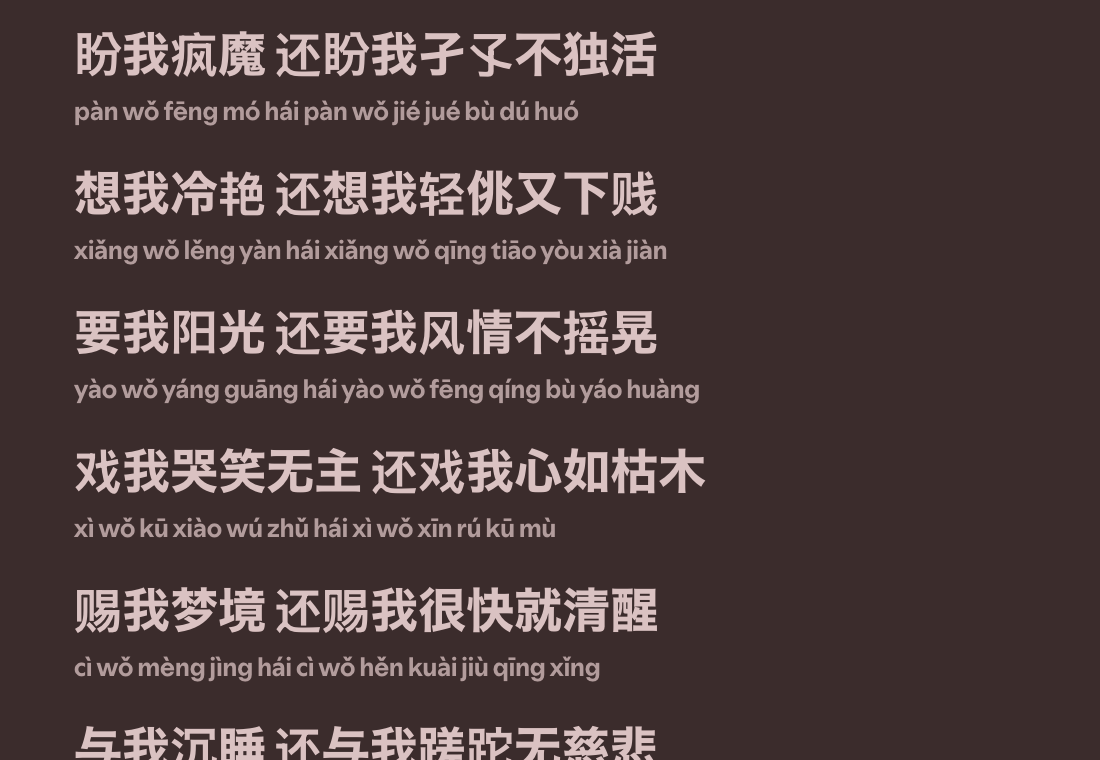
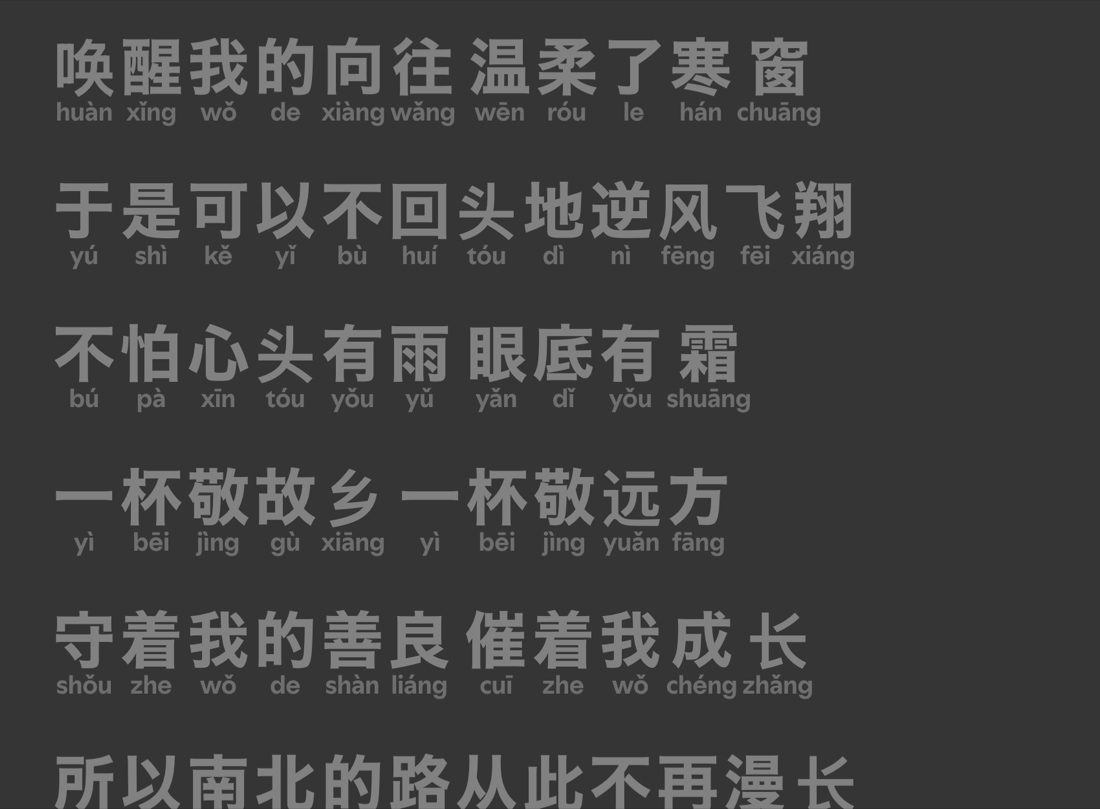
Align pinyin with each character using ruby annotations
Above/below modes now redraw the line as <ruby>, reading each character in
its phrase context (成长 chéng zhǎng, 漫长 màn cháng). Verified all four
modes in Spotify over the remote debugging port.

diff --git a/abc-lyrics.js b/abc-lyrics.js
@@ -395,7 +395,12 @@
   };
 
   const style = document.createElement("style");
-  style.textContent = `.${PINYIN_CLASS},.${ENGLISH_CLASS}{font-size:.55em;opacity:.75;font-weight:500;line-height:1.3;margin:.15em 0}.${ENGLISH_CLASS}{font-style:italic}`;
+  style.textContent = `
+    .${PINYIN_CLASS}--above ruby{ruby-position:over}
+    .${PINYIN_CLASS}--below ruby{ruby-position:under}
+    .${PINYIN_CLASS} rt{font-size:.42em;font-weight:500;opacity:.75;letter-spacing:0}
+    .${PINYIN_CLASS} ruby{margin:0 .04em}
+    .${ENGLISH_CLASS}{font-size:.55em;opacity:.75;font-weight:500;line-height:1.3;margin:.15em 0;font-style:italic}`;
   document.head.appendChild(style);
 
   // Translations come from Google Translate's free endpoint, one request per
@@ -426,6 +431,28 @@
     processAll();
   }
 
+  // pinyin-pro reads each character in the context of its phrase; if OpenCC
+  // changed the length, fall back to reading characters one by one.
+  function rubyLine(text) {
+    const chars = [...text];
+    let readings = pinyinPro.pinyin(toSimplified(text), { type: "all" });
+    if (readings.length !== chars.length) readings = chars.map((c) => pinyinPro.pinyin(toSimplified(c), { type: "all" })[0]);
+    const el = document.createElement("span");
+    el.className = `${PINYIN_CLASS} ${PINYIN_CLASS}--${settings.pinyin}`;
+    chars.forEach((char, i) => {
+      if (!readings[i]?.isZh) {
+        el.append(char);
+        return;
+      }
+      const r = document.createElement("ruby");
+      const rt = document.createElement("rt");
+      rt.textContent = readings[i].pinyin;
+      r.append(char, rt);
+      el.append(r);
+    });
+    return el;
+  }
+
   // Each text node remembers its original text, so turning an option off
   // restores it and React's own updates are picked up as new originals.
   const originals = new WeakMap();
@@ -438,6 +465,11 @@
           ? NodeFilter.FILTER_REJECT
           : NodeFilter.FILTER_ACCEPT,
     });
+    // Above/below: Spotify's text nodes are emptied and the line is redrawn as
+    // <ruby>, so each syllable sits exactly over or under its character.
+    const ruby = settings.pinyin === "below" || settings.pinyin === "above";
+    let displayed = "";
+    const parts = [];
     for (let node = walker.nextNode(); node; node = walker.nextNode()) {
       const known = originals.get(node);
       const source = known && node.nodeValue === known.shown ? known.original : node.nodeValue;
@@ -445,26 +477,29 @@
       let shown = source;
       if (settings.pinyin === "only" && HAN.test(source)) shown = toPinyin(source);
       else if (settings.simplified) shown = toSimplified(source);
+      displayed += shown;
+      parts.push([node, source, shown]);
+    }
+
+    const hasHan = HAN.test(original);
+    for (const [node, source, text] of parts) {
+      const shown = ruby && hasHan ? "" : text;
       originals.set(node, { original: source, shown });
       if (node.nodeValue !== shown) node.nodeValue = shown;
     }
 
-    const hasHan = HAN.test(original);
-
     let pinyinEl = textEl.querySelector(`:scope > .${PINYIN_CLASS}`);
-    const wantsPinyin = hasHan && (settings.pinyin === "below" || settings.pinyin === "above");
-    if (!wantsPinyin) {
+    if (!ruby || !hasHan) {
       pinyinEl?.remove();
     } else {
-      if (!pinyinEl) {
-        pinyinEl = document.createElement("div");
-        pinyinEl.className = PINYIN_CLASS;
+      const key = `${settings.pinyin}|${displayed}`;
+      if (pinyinEl?.dataset.key !== key) {
+        pinyinEl?.remove();
+        pinyinEl = rubyLine(displayed);
+        pinyinEl.dataset.key = key;
       }
-      const text = toPinyin(original);
-      if (pinyinEl.textContent !== text) pinyinEl.textContent = text;
-      const anchor = settings.pinyin === "above" ? textEl.firstChild : null;
-      if (pinyinEl.parentNode !== textEl || (anchor !== pinyinEl && pinyinEl.nextSibling !== anchor)) {
-        textEl.insertBefore(pinyinEl, anchor);
+      if (pinyinEl.parentNode !== textEl || pinyinEl !== textEl.firstChild) {
+        textEl.insertBefore(pinyinEl, textEl.firstChild);
       }
     }
 

diff --git a/src/abc-lyrics.js b/src/abc-lyrics.js
@@ -33,7 +33,12 @@
   };
 
   const style = document.createElement("style");
-  style.textContent = `.${PINYIN_CLASS},.${ENGLISH_CLASS}{font-size:.55em;opacity:.75;font-weight:500;line-height:1.3;margin:.15em 0}.${ENGLISH_CLASS}{font-style:italic}`;
+  style.textContent = `
+    .${PINYIN_CLASS}--above ruby{ruby-position:over}
+    .${PINYIN_CLASS}--below ruby{ruby-position:under}
+    .${PINYIN_CLASS} rt{font-size:.42em;font-weight:500;opacity:.75;letter-spacing:0}
+    .${PINYIN_CLASS} ruby{margin:0 .04em}
+    .${ENGLISH_CLASS}{font-size:.55em;opacity:.75;font-weight:500;line-height:1.3;margin:.15em 0;font-style:italic}`;
   document.head.appendChild(style);
 
   // Translations come from Google Translate's free endpoint, one request per
@@ -64,6 +69,28 @@
     processAll();
   }
 
+  // pinyin-pro reads each character in the context of its phrase; if OpenCC
+  // changed the length, fall back to reading characters one by one.
+  function rubyLine(text) {
+    const chars = [...text];
+    let readings = pinyinPro.pinyin(toSimplified(text), { type: "all" });
+    if (readings.length !== chars.length) readings = chars.map((c) => pinyinPro.pinyin(toSimplified(c), { type: "all" })[0]);
+    const el = document.createElement("span");
+    el.className = `${PINYIN_CLASS} ${PINYIN_CLASS}--${settings.pinyin}`;
+    chars.forEach((char, i) => {
+      if (!readings[i]?.isZh) {
+        el.append(char);
+        return;
+      }
+      const r = document.createElement("ruby");
+      const rt = document.createElement("rt");
+      rt.textContent = readings[i].pinyin;
+      r.append(char, rt);
+      el.append(r);
+    });
+    return el;
+  }
+
   // Each text node remembers its original text, so turning an option off
   // restores it and React's own updates are picked up as new originals.
   const originals = new WeakMap();
@@ -76,6 +103,11 @@
           ? NodeFilter.FILTER_REJECT
           : NodeFilter.FILTER_ACCEPT,
     });
+    // Above/below: Spotify's text nodes are emptied and the line is redrawn as
+    // <ruby>, so each syllable sits exactly over or under its character.
+    const ruby = settings.pinyin === "below" || settings.pinyin === "above";
+    let displayed = "";
+    const parts = [];
     for (let node = walker.nextNode(); node; node = walker.nextNode()) {
       const known = originals.get(node);
       const source = known && node.nodeValue === known.shown ? known.original : node.nodeValue;
@@ -83,26 +115,29 @@
       let shown = source;
       if (settings.pinyin === "only" && HAN.test(source)) shown = toPinyin(source);
       else if (settings.simplified) shown = toSimplified(source);
+      displayed += shown;
+      parts.push([node, source, shown]);
+    }
+
+    const hasHan = HAN.test(original);
+    for (const [node, source, text] of parts) {
+      const shown = ruby && hasHan ? "" : text;
       originals.set(node, { original: source, shown });
       if (node.nodeValue !== shown) node.nodeValue = shown;
     }
 
-    const hasHan = HAN.test(original);
-
     let pinyinEl = textEl.querySelector(`:scope > .${PINYIN_CLASS}`);
-    const wantsPinyin = hasHan && (settings.pinyin === "below" || settings.pinyin === "above");
-    if (!wantsPinyin) {
+    if (!ruby || !hasHan) {
       pinyinEl?.remove();
     } else {
-      if (!pinyinEl) {
-        pinyinEl = document.createElement("div");
-        pinyinEl.className = PINYIN_CLASS;
+      const key = `${settings.pinyin}|${displayed}`;
+      if (pinyinEl?.dataset.key !== key) {
+        pinyinEl?.remove();
+        pinyinEl = rubyLine(displayed);
+        pinyinEl.dataset.key = key;
       }
-      const text = toPinyin(original);
-      if (pinyinEl.textContent !== text) pinyinEl.textContent = text;
-      const anchor = settings.pinyin === "above" ? textEl.firstChild : null;
-      if (pinyinEl.parentNode !== textEl || (anchor !== pinyinEl && pinyinEl.nextSibling !== anchor)) {
-        textEl.insertBefore(pinyinEl, anchor);
+      if (pinyinEl.parentNode !== textEl || pinyinEl !== textEl.firstChild) {
+        textEl.insertBefore(pinyinEl, textEl.firstChild);
       }
     }
 
